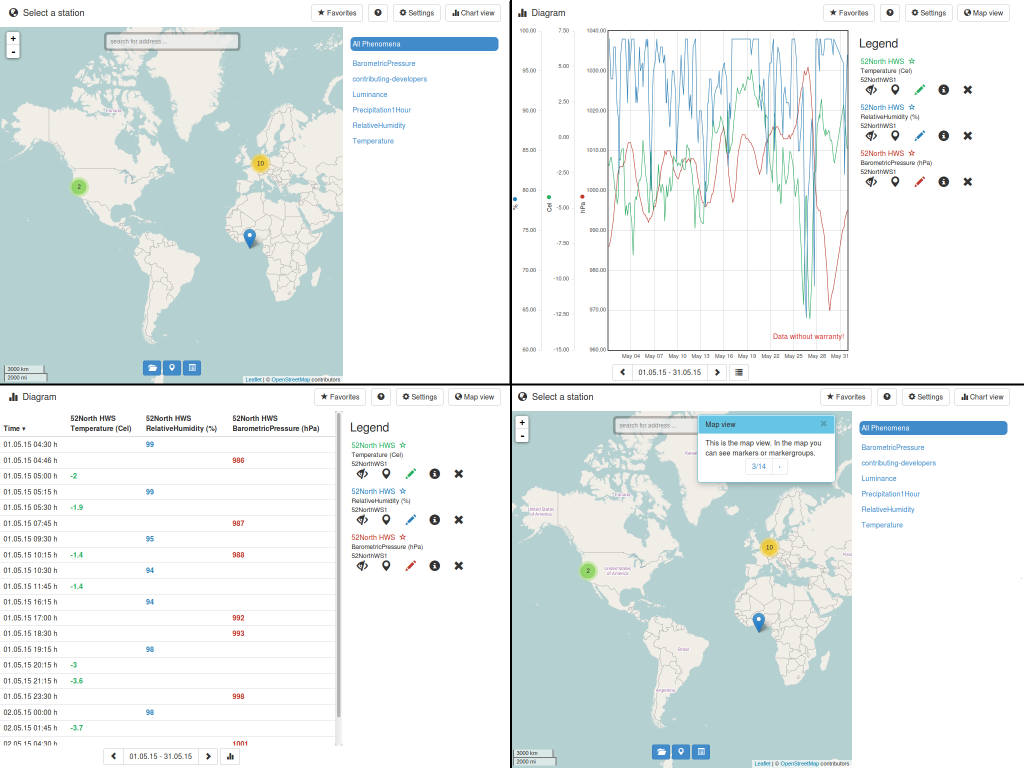
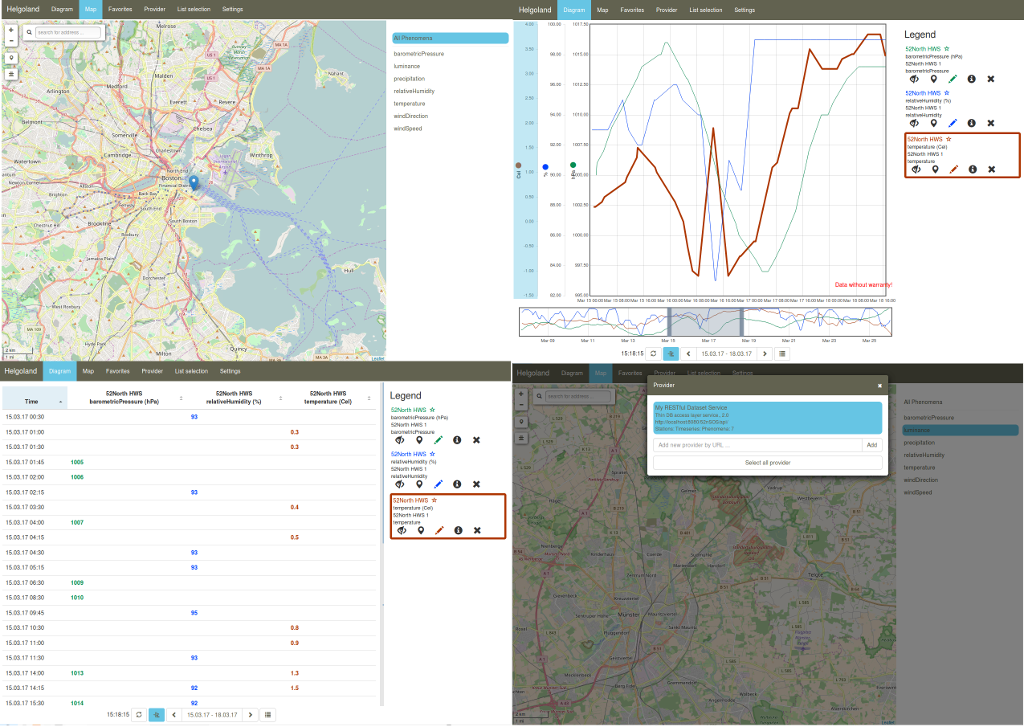
Docu update
- quickstarts
- view client image gallery

diff --git a/de/quickstart/52nSOS_quickstart.rst b/de/quickstart/52nSOS_quickstart.rst
@@ -22,8 +22,9 @@ Dieses Quickstart-Dokument umfasst:
     welche Operationen/Abfrageparameter unterstützt werden.
   * Beispiel-Anfrage um Messdaten des SOS abzurufen.
   * Informationen zur Datenvisualisierung in einem einfachen, mit dem SOS
-    mitgelieferten Viewer.
+    mitgelieferten Viewer "Helgoland".
   * Informationen zum Ausprobieren einer REST-Schnittstelle für Anwendungsentwickler.
+  * Einfügen von dynamisch generierten Beispieldaten.
 
 .. contents:: Inhalt
 
@@ -99,6 +100,15 @@ Ausprobieren
 * Lernen Sie den `SOS-Administrator <http://localhost:8080/52nSOS/admin/index>`_ kennen.
    Die Zugangsdaten lauten: "user" mit Passwort "user".
 * Nutzen Sie den `View Client <http://localhost:8080/52nSOS/static/client/jsClient/>`_ (siehe Abb. 3).
+* Testen Sie wweitere Beispieldaten, in dem Sie die folgenden Schritte ausführen:
+  1. Öffen Sie im SOS-Administrator die `"database maintenance"-Seite <http://localhost:8080/52nSOS/admin/datasource>`_.
+  2. Leeren Sie die Datanbank mit dem "Clear Datasource"-Knopf" (Dadurch werden die initialen
+     Beispiel-Daten gelöscht. Sie können OSGeoLive neustarten, um Sie zurück zu bekommen.).
+  3. Fügen Sie dynamisch erzeugte Beispieldaten durch einen Klick auf den
+     "Insert sample data"-Knopf. Seien Sie informiert, dass dieser Prozess einige
+     Minuten in Anspruch nimmt.
+  4. Öffnen Sie `helgoland <http://localhost:8080/52nSOS/static/client/helgoland/#/map>`_
+     erneut und erkunden Sie die erzeugten Beispieldaten.
 
 .. image:: ../../images/screenshots/1024x768/52n_sos_viewclient.png
   :scale: 100 %
@@ -107,7 +117,7 @@ Ausprobieren
 
 **Abb. 3**: 52°North SOS Anwendung - JavaScript-Client mit Zeitreihendaten.
 
-* Testen Sie die `REST API <http://localhost:8080/52nSOS/api/v1/>`_ (siehe Listing 2):
+* Testen Sie die `REST API <http://localhost:8080/52nSOS/api/>`_ (siehe Listing 2):
 
 .. code-block:: js
 
@@ -151,7 +161,16 @@ Ausprobieren
             id: "phenomena",
             label: "Phenomenon",
             description: "An organizing unit to filter resources."
-        }
+        },
+        {
+            id: "platforms",
+            label: "Platforms",
+            description: "A sensor platform where observations are made."
+        },
+        {
+            id: "geometries",
+            label: "Geometries",
+            description: "A geometry where observations are made or that was observed."
     ]
 
 **Listing 2:** Ausgabe der REST-Schnittstelle.

diff --git a/en/quickstart/52nSOS_quickstart.rst b/en/quickstart/52nSOS_quickstart.rst
@@ -21,8 +21,8 @@ This Quick Start describes how to:
 
   * Query the 52°North SOS Capabilities to determine what queries it supports.
   * Query details about an Observation from the SOS.
-  * Use a lightweight visualisation tool delivered together with the SOS to
-    explore the available data.
+  * Use a lightweight visualisation tool "helgoland" delivered together with
+    the SOS to explore the available data.
   * Explore the REST API endpoint for client developers.
 
 .. contents:: Contents
@@ -101,7 +101,16 @@ Things to Try
 * Try tweaking some of these queries to get different information.
 * Try the `SOS administrator <http://localhost:8080/52nSOS/admin/index>`_ using
    username "user" and password "user".
-* Try the `View Client <http://localhost:8080/52nSOS/static/client/jsClient/>`_ (see Fiq. 3).
+* Try Helgoland - the `View Client <http://localhost:8080/52nSOS/static/client/helgoland/#/map>`_ (see Fiq. 3).
+* Try other sample data by performing the following steps
+  1. Open the SOS administrator `database maintenance page <http://localhost:8080/52nSOS/admin/datasource>`_.
+  2. Empty the database using the "Clear Datasource" button (this will delete
+     the example data. You can restart OSGeoLive to get the data back.).
+  3. Insert dynamically generated sample data by clicking on the "Insert
+     sample data" button. Please be informed, that this operation might take
+     some minutes.
+  4. Open `helgoland <http://localhost:8080/52nSOS/static/client/helgoland/#/map>`_
+     again and explore the generated sample data.
 
 .. image:: ../../images/screenshots/1024x768/52n_sos_viewclient.png
   :scale: 70 %
@@ -110,7 +119,7 @@ Things to Try
 
 **Fig. 3**: 52°North SOS client - JavaScript client with time series data.
 
-* Try the `REST API <http://localhost:8080/52nSOS/api/v1/>`_ (see Listing 2):
+* Try the `REST API <http://localhost:8080/52nSOS/api/>`_ (see Listing 2):
 
 .. code-block:: js
 
@@ -154,6 +163,16 @@ Things to Try
             id: "phenomena",
             label: "Phenomenon",
             description: "An organizing unit to filter resources."
+        },
+        {
+            id: "platforms",
+            label: "Platforms",
+            description: "A sensor platform where observations are made."
+        },
+        {
+            id: "geometries",
+            label: "Geometries",
+            description: "A geometry where observations are made or that was observed."
         }
     ]
 
